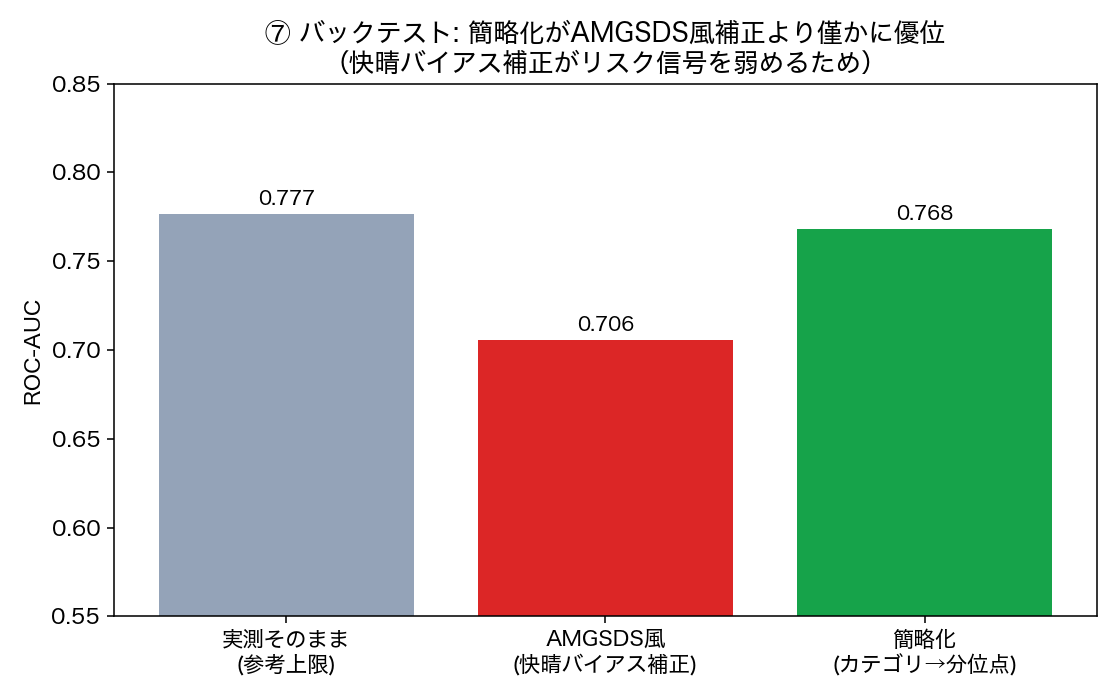
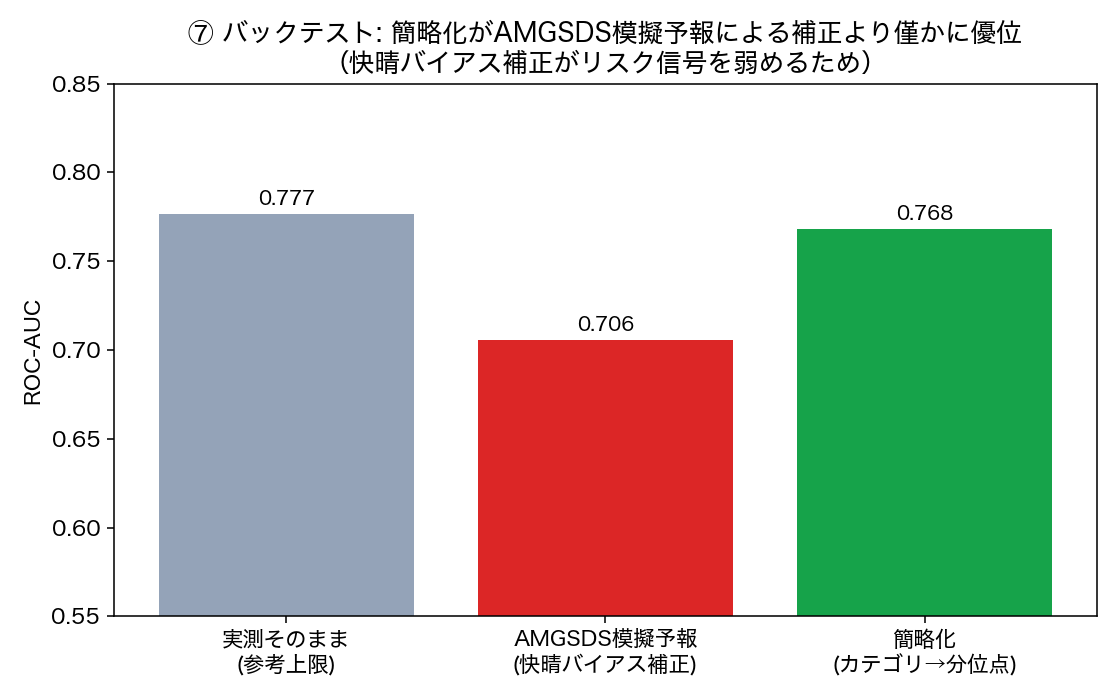
docs(id01): 「AMGSDS風」を「AMGSDS模擬予報」に表記統一
「風」だと「〜ふう」という意味が伝わりにくいとの指摘を受け、実際のAMGSDS予報
ではなくバイアス補正シミュレーションであることが分かりやすい表現に変更。
数値は変更なし（ラベルのみ）。関連する図2枚(fig07, fig09)を再生成。

Changed region(s): [[0.1562, 0.03, 0.9062, 0.06], [0.4688, 0.9, 0.625, 0.93]]

diff --git a/experiments/id01_curtailment_compare/src/visualize_summary.py b/experiments/id01_curtailment_compare/src/visualize_summary.py
@@ -216,7 +216,7 @@ def fig07_backtest_comparison():
     df = build_backtest_dataset()
     results = []
     for col, label in [("sunshine_h", "実測そのまま\n(参考上限)"),
-                        ("amgsds_proxy_h", "AMGSDS風\n(快晴バイアス補正)"),
+                        ("amgsds_proxy_h", "AMGSDS模擬予報\n(快晴バイアス補正)"),
                         ("simplified_h", "簡略化\n(カテゴリ→分位点)")]:
         r = bt_evaluate(df, col, label.replace("\n", " "))
         results.append((label, r["auc"]))
@@ -230,7 +230,7 @@ def fig07_backtest_comparison():
         ax.text(b.get_x() + b.get_width() / 2, v + 0.005, f"{v:.3f}", ha="center", fontsize=10)
     ax.set_ylabel("ROC-AUC")
     ax.set_ylim(0.55, 0.85)
-    ax.set_title("⑦ バックテスト: 簡略化がAMGSDS風補正より僅かに優位\n（快晴バイアス補正がリスク信号を弱めるため）")
+    ax.set_title("⑦ バックテスト: 簡略化がAMGSDS模擬予報による補正より僅かに優位\n（快晴バイアス補正がリスク信号を弱めるため）")
     fig.tight_layout()
     fig.savefig(FIG_DIR / "07_backtest_comparison.png", dpi=140)
     plt.close(fig)
@@ -258,7 +258,7 @@ def fig09_generation_corr_comparison():
     gen = pd.read_csv(PROCESSED_DIR / "kyushu_generation_merged.csv", parse_dates=["date"])
     non_curtailed = gen[gen["is_curtailed"] == 0]
     methods = [("sunshine_h", "日照時間"), ("solar_mj", "全天日射量"),
-               ("amgsds_proxy_h", "AMGSDS風"), ("simplified_h", "簡略化")]
+               ("amgsds_proxy_h", "AMGSDS模擬予報"), ("simplified_h", "簡略化")]
     all_r = [gen["solar_mwh"].corr(gen[c]) for c, _ in methods]
     nc_r = [non_curtailed["solar_mwh"].corr(non_curtailed[c]) for c, _ in methods]
 

diff --git a/experiments/id01_curtailment_compare/src/analyze_kyushu_generation.py b/experiments/id01_curtailment_compare/src/analyze_kyushu_generation.py
@@ -31,7 +31,7 @@ def main():
 
     print("=== 実際の発電量[MWh]との相関（全日） ===")
     for col, name in [("sunshine_h", "実測日照時間"), ("solar_mj", "実測全天日射量"),
-                       ("amgsds_proxy_h", "AMGSDS風(快晴バイアス補正)"), ("simplified_h", "簡略化")]:
+                       ("amgsds_proxy_h", "AMGSDS模擬予報(快晴バイアス補正)"), ("simplified_h", "簡略化")]:
         r = df["solar_mwh"].corr(df[col])
         print(f"  {name:28s} r={r:.3f}")
 
@@ -39,7 +39,7 @@ def main():
     non_curtailed = df[df["is_curtailed"] == 0]
     print(f"  (n={len(non_curtailed)})")
     for col, name in [("sunshine_h", "実測日照時間"), ("solar_mj", "実測全天日射量"),
-                       ("amgsds_proxy_h", "AMGSDS風(快晴バイアス補正)"), ("simplified_h", "簡略化")]:
+                       ("amgsds_proxy_h", "AMGSDS模擬予報(快晴バイアス補正)"), ("simplified_h", "簡略化")]:
         r = non_curtailed["solar_mwh"].corr(non_curtailed[col])
         print(f"  {name:28s} r={r:.3f}")
 

diff --git a/experiments/id01_curtailment_compare/src/backtest_kyushu_forecast_methods.py b/experiments/id01_curtailment_compare/src/backtest_kyushu_forecast_methods.py
@@ -1,4 +1,4 @@
-"""九州の過去の出力制御実績に対し、「AMGSDS風（快晴バイアス補正済み）予報」と「天気カテゴリの簡略化」
+"""九州の過去の出力制御実績に対し、「AMGSDS模擬予報（快晴バイアス補正済み）」と「天気カテゴリの簡略化」
 のどちらが出力制御の予測に有効かをバックテストする。
 
 ユーザーの提案: AMGSDSの実際の予報vintageアーカイブは福岡には存在しないため、代わりに
@@ -114,7 +114,7 @@ def main():
 
     results = []
     results.append(evaluate(df, "sunshine_h", "実測そのまま（オラクル、参考上限）"))
-    results.append(evaluate(df, "amgsds_proxy_h", "AMGSDS風（快晴バイアス補正シミュレーション）"))
+    results.append(evaluate(df, "amgsds_proxy_h", "AMGSDS模擬予報（快晴バイアス補正シミュレーション）"))
     results.append(evaluate(df, "simplified_h", "簡略化（天気カテゴリ→分位点）"))
 
     print("\n=== まとめ ===")

diff --git a/experiments/id01_curtailment_compare/README.md b/experiments/id01_curtailment_compare/README.md
@@ -189,10 +189,10 @@ cd experiments/id01_curtailment_compare
 | 手法 | ROC-AUC | 適合率 | 再現率 |
 |---|---|---|---|
 | 実測そのまま（参考上限） | 0.777 | 0.591 | 0.515 |
-| AMGSDS風（快晴バイアス補正シミュレーション） | 0.706 | 0.543 | 0.306 |
+| AMGSDS模擬予報（快晴バイアス補正シミュレーション） | 0.706 | 0.543 | 0.306 |
 | **簡略化（カテゴリ→分位点）** | **0.768** | 0.699 | 0.399 |
 
-簡略化の方が実測そのものよりもわずかに良く、AMGSDS風補正より明確に上回った。快晴バイアス補正が、出力制御リスクが最も高い「快晴日」のリスク信号を弱めてしまうため。追加検証3の結論（両手法に優劣はつけられない、AMGSDSは快晴日に不利な可能性がある）を数値で裏付けた。
+簡略化の方が実測そのものよりもわずかに良く、AMGSDS模擬予報による補正より明確に上回った。快晴バイアス補正が、出力制御リスクが最も高い「快晴日」のリスク信号を弱めてしまうため。追加検証3の結論（両手法に優劣はつけられない、AMGSDSは快晴日に不利な可能性がある）を数値で裏付けた。
 
 ### 4.2 実際の発電量での精度比較（太陽光単独データに訂正済み）
 
@@ -213,7 +213,7 @@ cd experiments/id01_curtailment_compare
 |---|---|---|
 | 日照時間（実測） | 0.799 | 0.811 |
 | **全天日射量（実測）** | **0.835** | **0.854** |
-| AMGSDS風（快晴バイアス補正） | 0.670 | 0.695 |
+| AMGSDS模擬予報（快晴バイアス補正） | 0.670 | 0.695 |
 | 簡略化（カテゴリ→分位点） | 0.691 | 0.693 |
 
 （参考: 風力を含む合計データ（2022年7月〜）で同じ比較をすると、日照時間r=0.796・全天日射量r=0.819と、いずれも太陽光単独より相関が弱まる。風力という無関係な変数が混ざるとノイズになるため。）
